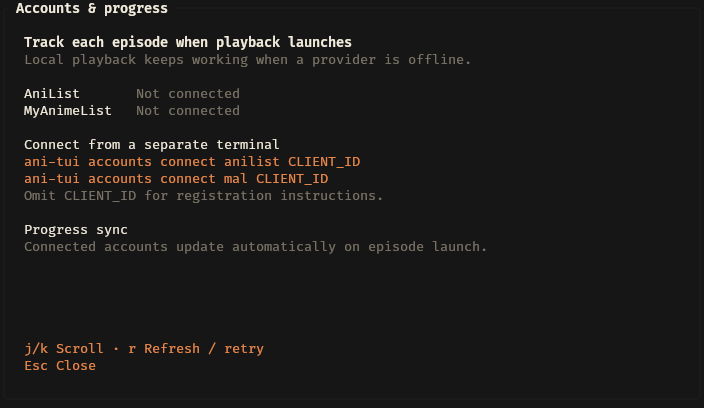
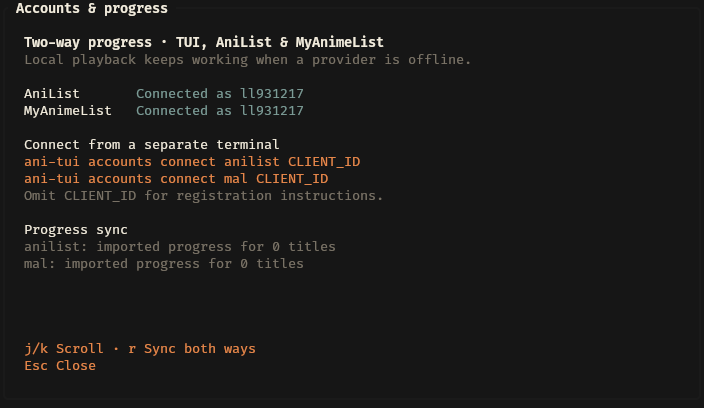
Document two-way sync and merge duplicate AniList entries safely

diff --git a/src/tracking/remote.rs b/src/tracking/remote.rs
@@ -99,6 +99,21 @@ fn anilist_page(data: &Value, now: i64) -> Result<(Vec<RemoteEntry>, bool)> {
     Ok((entries, more))
 }
 
+fn merge_entry(
+    entries: &mut Vec<RemoteEntry>,
+    positions: &mut HashMap<i64, usize>,
+    entry: RemoteEntry,
+) {
+    if let Some(&index) = positions.get(&entry.anime.id) {
+        let existing = &mut entries[index];
+        existing.progress = existing.progress.max(entry.progress);
+        existing.updated_at = existing.updated_at.max(entry.updated_at);
+    } else {
+        positions.insert(entry.anime.id, entries.len());
+        entries.push(entry);
+    }
+}
+
 async fn anilist(
     client: &Client,
     pool: &SqlitePool,
@@ -107,7 +122,7 @@ async fn anilist(
 ) -> Result<RemoteList> {
     let query = ["query($user:Int!,$page:Int!){Page(page:$page,perPage:50){pageInfo{hasNextPage} mediaList(userId:$user,type:ANIME,sort:MEDIA_ID){progress updatedAt media{", FIELDS, "}}}}"].concat();
     let mut entries = Vec::new();
-    let mut seen = HashSet::new();
+    let mut positions = HashMap::new();
     for page in 1..=MAX_ENTRIES / 50 {
         let response = graphql(
             client,
@@ -118,9 +133,6 @@ async fn anilist(
         .await?;
         let (batch, more) = anilist_page(&response, now)?;
         for entry in batch {
-            if !seen.insert(entry.anime.id) {
-                bail!("AniList list changed during pagination; retry sync");
-            }
             if let Some(id) = response["data"]["Page"]["mediaList"]
                 .as_array()
                 .and_then(|items| {
@@ -137,7 +149,7 @@ async fn anilist(
                     .execute(pool)
                     .await?;
             }
-            entries.push(entry);
+            merge_entry(&mut entries, &mut positions, entry);
         }
         if !more {
             return Ok(RemoteList {
@@ -340,6 +352,20 @@ mod tests {
         assert!(mapping_page(&response, &[2], 20).is_err());
         let empty = json!({"data":{"Page":{"pageInfo":{"hasNextPage":false},"media":[]}}});
         assert!(mapping_page(&empty, &[3], 20).unwrap().is_empty());
+    }
+    #[test]
+    fn repeated_list_entries_merge_across_pages_without_lowering_progress() {
+        let page = |progress, updated| json!({"data":{"Page":{"pageInfo":{"hasNextPage":false},"mediaList":[{"media":media(),"progress":progress,"updatedAt":updated}]}}});
+        let mut entries = Vec::new();
+        let mut positions = HashMap::new();
+        for response in [page(5, 10), page(3, 15), page(8, 12)] {
+            for entry in anilist_page(&response, 20).unwrap().0 {
+                merge_entry(&mut entries, &mut positions, entry);
+            }
+        }
+        assert_eq!(entries.len(), 1);
+        assert_eq!(entries[0].progress, 8);
+        assert_eq!(entries[0].updated_at, 15);
     }
     #[test]
     fn anilist_requires_progress_and_complete_pagination() {

diff --git a/docs/ACCOUNTS.md b/docs/ACCOUNTS.md
@@ -1,6 +1,6 @@
 # Account setup
 
-Connect AniList, MyAnimeList, or both to track episodes automatically when playback launches. Without a connection, local history and playback work as before.
+Connect AniList, MyAnimeList, or both for two-way episode progress. Remote history appears in the TUI, and episode launches update connected accounts. Without a connection, local history and playback work as before.
 
 ## Register AniList
 
@@ -34,7 +34,7 @@ Client IDs can be shared for configuration. Keep access tokens, refresh tokens, 
 
 ## Use and manage accounts
 
-Press `a` from Home, Details, or Settings. The dialog shows connection status and recent sync results; `r` refreshes status and retries, `j/k` or arrows scroll, and Escape closes it. After connecting from another terminal, press `r` to refresh an already-running TUI.
+Press `a` from Home, Details, or Settings. The dialog shows connection status and recent sync results; `r` forces a two-way import and retries pending uploads, `j/k` or arrows scroll, and Escape closes it. After connecting from another terminal, press `r` to refresh an already-running TUI.
 
 ```bash
 ani-tui accounts status
@@ -48,10 +48,12 @@ Omit the client ID from a connect command to print registration instructions wit
 ## Progress behavior
 
 - Launching E3 records progress 3. It does not verify that the episode was completed or that the external player successfully played the stream.
-- Updates are outbound. Remote watchlists and history are not imported into local recommendations or history.
+- Remote progress imports at startup, every five minutes while running, and on manual sync. Imported counts mark E1 through that count as watched. Continue Watching, resume labels, recommendations, and an open detail page refresh without restarting or moving your current episode cursor.
+- The highest episode count wins across local history and both providers. A higher AniList count reaches MyAnimeList and vice versa. Existing local history is also reconciled, including progress imported before an account was disconnected. Lower manual resets and deletions do not erase local progress or lower another account.
+- This sync covers episode progress. Remote watchlists, scores, list removals, and rewatch counts are not imported. Titles with zero progress do not create local watch history.
 - Remote progress never decreases when replaying earlier episodes. Existing completed status is preserved; a new completed status requires a finished title and reaching its known episode total.
 - Failed updates remain in SQLite and retry at startup, on another launch, or with a manual retry. Local playback remains responsive.
-- MyAnimeList uses the title's authoritative AniList `idMal` mapping. A missing mapping produces a retryable error rather than guessing a title.
+- MyAnimeList uses authoritative AniList `idMal` mappings, fetched in batches and cached. Remote titles without a mapping are skipped with a count in the dialog; uploads without a mapping remain queued rather than guessing a title.
 - Jobs are bound to the connected user's ID. Disconnecting or connecting a different user clears that provider's pending jobs.
 
 ## Credentials and troubleshooting
@@ -60,4 +62,6 @@ Tokens are stored in `accounts.json` alongside `config.toml`: `~/.config/ani-tui
 
 If AniList authorization expires or is revoked, reconnect. MAL refreshes automatically; reconnect if refresh access has expired or been revoked. Provider outages retain queued updates for retry. Disconnect removes local credentials and pending jobs; revoke authorization in the provider's account settings to remove server-side access too.
 
-The implementation has automated credential, callback, queue, and progress-merge tests. Full live authorization and remote progress writes require registered client IDs and account approval.
+Imports paginate the complete list before applying user progress. Invalid or incomplete responses leave local progress intact; duplicate AniList entries merge conservatively. Limits are 20,000 list entries, 10,000 episodes per title, and one million imported episode rows per provider pass. Provider failures are throttled for five minutes; manual sync bypasses that cooldown. Rotating MAL tokens are saved before later list or database operations can fail.
+
+The implementation has automated credential, callback, list-parser, merge, retry, and TUI refresh tests. After connecting your accounts, run `ani-tui accounts retry` for an end-to-end sync and inspect the account dialog for results.

diff --git a/README.md b/README.md
@@ -17,7 +17,7 @@ It is built for local-first use: metadata is cached in SQLite, recommendations a
 - Home selection scrolls only when it crosses a visible row edge.
 - Episode navigation supports all four arrow keys and `h/j/k/l`, using the actual grid width and keeping selection visible on resize.
 - Airing shows list aired episodes separately from planned season totals; unreleased and unconfirmed episodes cannot be selected or launched.
-- Optional AniList and MyAnimeList accounts automatically track progress on episode launch, with durable offline retries.
+- Two-way AniList and MyAnimeList progress: import remote history, update the TUI automatically, and sync episode launches with durable offline retries.
 - Cached synopsis HTML is cleaned up, and detail layout preserves episode navigation on smaller terminals.
 
 See [the fork guide](docs/FORK.md) for rendering behavior, palette values, and implementation details.
@@ -73,14 +73,14 @@ Captured from this fork running in Kitty with native cover images.
 
 ## Account Tracking
 
-Press `a` from Home, Details, or Settings to view account status and retry pending updates. Connect either or both providers from a separate terminal:
+Press `a` from Home, Details, or Settings to view account status and sync progress in both directions. Connect either or both providers from a separate terminal:
 
 ```bash
 ani-tui accounts connect anilist YOUR_CLIENT_ID
 ani-tui accounts connect mal YOUR_CLIENT_ID
 ```
 
-See [the account setup guide](docs/ACCOUNTS.md) for app registration, exact redirect URLs, authorization, and disconnect commands. Progress updates when playback launches; it does not wait for viewing completion. Failed updates persist locally and retry automatically.
+See [the account setup guide](docs/ACCOUNTS.md) for app registration, exact redirect URLs, authorization, and disconnect commands. Remote progress imports at startup and every five minutes, updating Continue Watching, recommendations, resume labels, and watched markers. Press `a`, then `r`, to sync immediately. The highest episode count wins across local history and both accounts. Launches update accounts without waiting for viewing completion; failed updates persist for retry. Watchlists, scores, and deliberate progress resets are not synchronized.
 
 ## Prerequisites
 
@@ -254,6 +254,9 @@ src/
     oauth.rs      — AniList PIN and MyAnimeList native PKCE authorization
     credentials.rs — Private token storage and cross-process locking
     providers.rs  — Remote progress reads, updates, and MAL token refresh
+    remote.rs     — Paginated account lists and exact ID mapping
+    reconcile.rs  — Monotonic imports and cross-account catch-up
+    bidirectional.rs — Import scheduling, token persistence, and conflict orchestration
   ui/
     home.rs       — Curated home screen
     detail.rs     — Anime detail + episode list

diff --git a/docs/FORK.md b/docs/FORK.md
@@ -52,7 +52,9 @@ Optional AniList and MyAnimeList connections share the Amp dialog style and pres
 
 `src/tracking/` separates OAuth, credentials, provider requests, and queue orchestration. Launches persist identity-bound progress jobs in SQLite before background network requests. Retries run at startup, on subsequent launches, and on request. Updates never reduce remote progress. MyAnimeList IDs come from AniList metadata rather than title matching. Tokens live separately from preferences and are saved atomically with owner-only Unix permissions. Cross-process locking protects token refresh and account changes.
 
-Tracking records episode launches, not verified viewing completion. Sync is outbound; remote lists are not imported. Both providers can be connected independently.
+Tracking records episode launches, not verified viewing completion. Sync is bidirectional for episode progress. Full paginated remote lists import at startup, every five minutes, and on request. Counts materialize contiguous watched history without overwriting existing local event timestamps. Continue Watching and open detail markers refresh from SQLite; selection is preserved by anime ID and episode cursor.
+
+`remote.rs` batches authoritative MAL-to-AniList lookups and deduplicates AniList entries. `reconcile.rs` takes the highest confirmed progress and queues lower accounts to catch up. `bidirectional.rs` manages import cooldowns and saves refreshed tokens before downstream work. Failed imports do not prevent outbound retries. Watchlists, scores, deletions, and lower progress resets are outside the progress sync contract. Both providers can be connected independently.
 
 ## Build and checks
 
